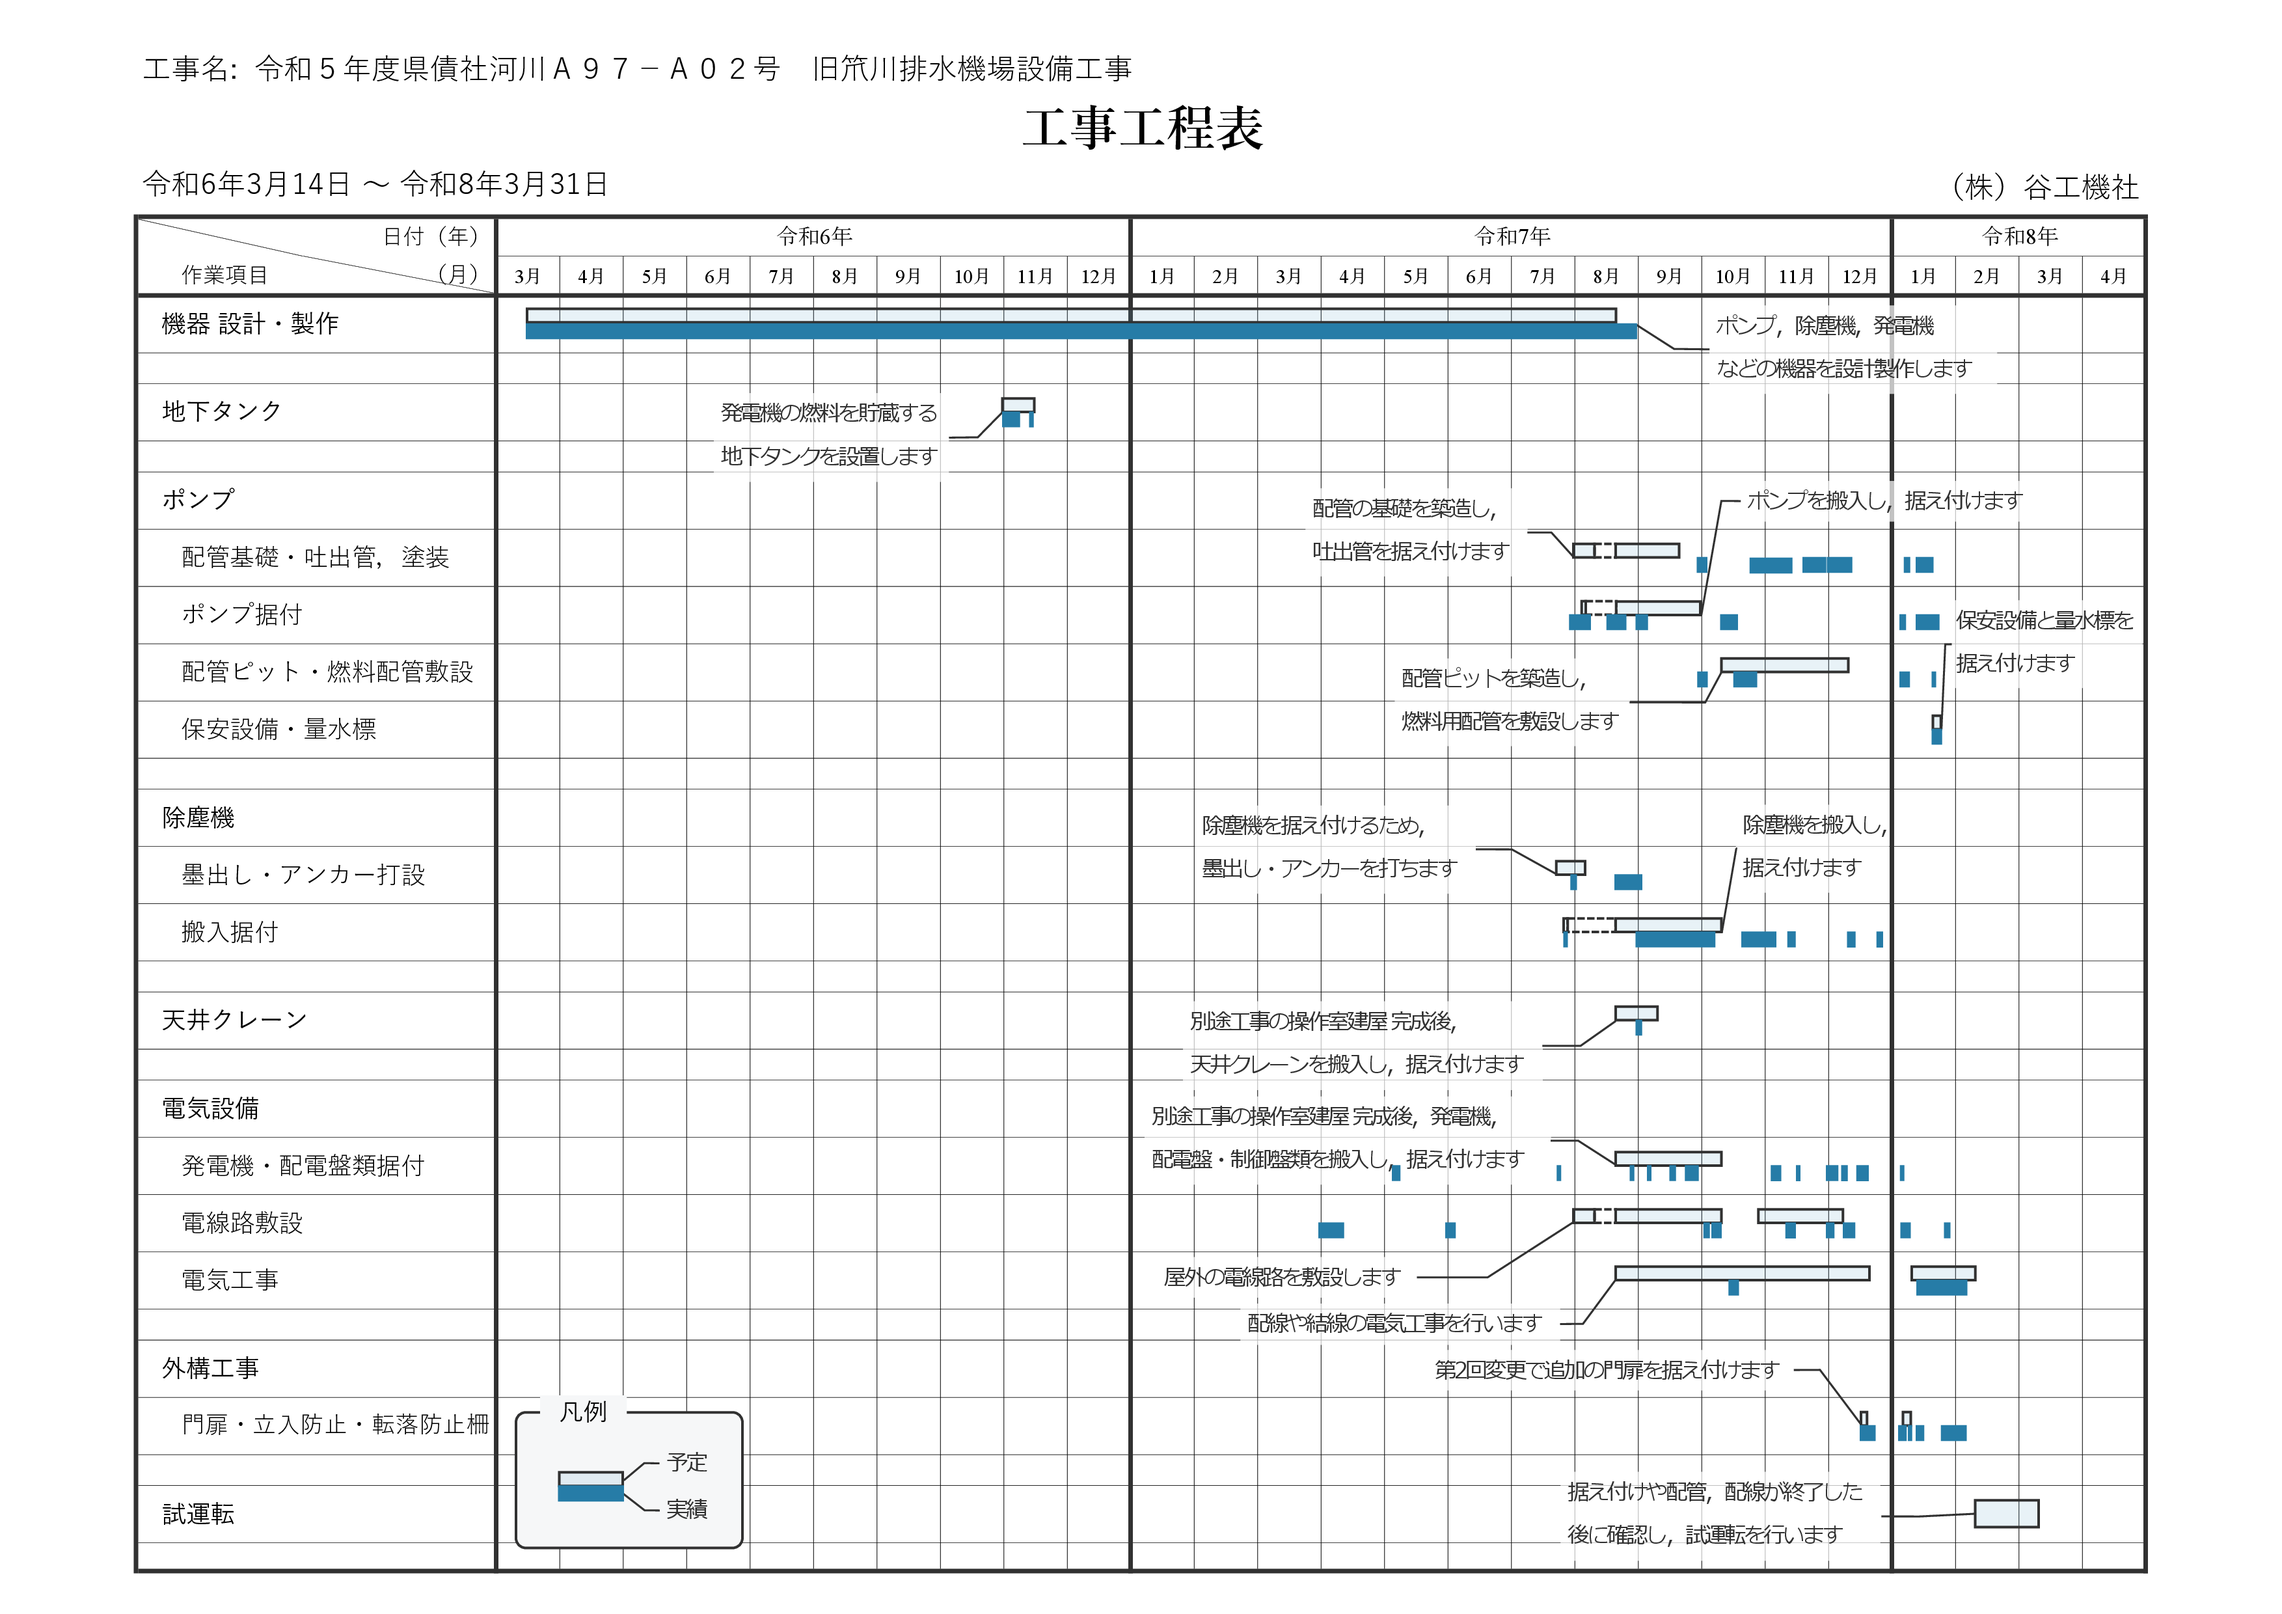
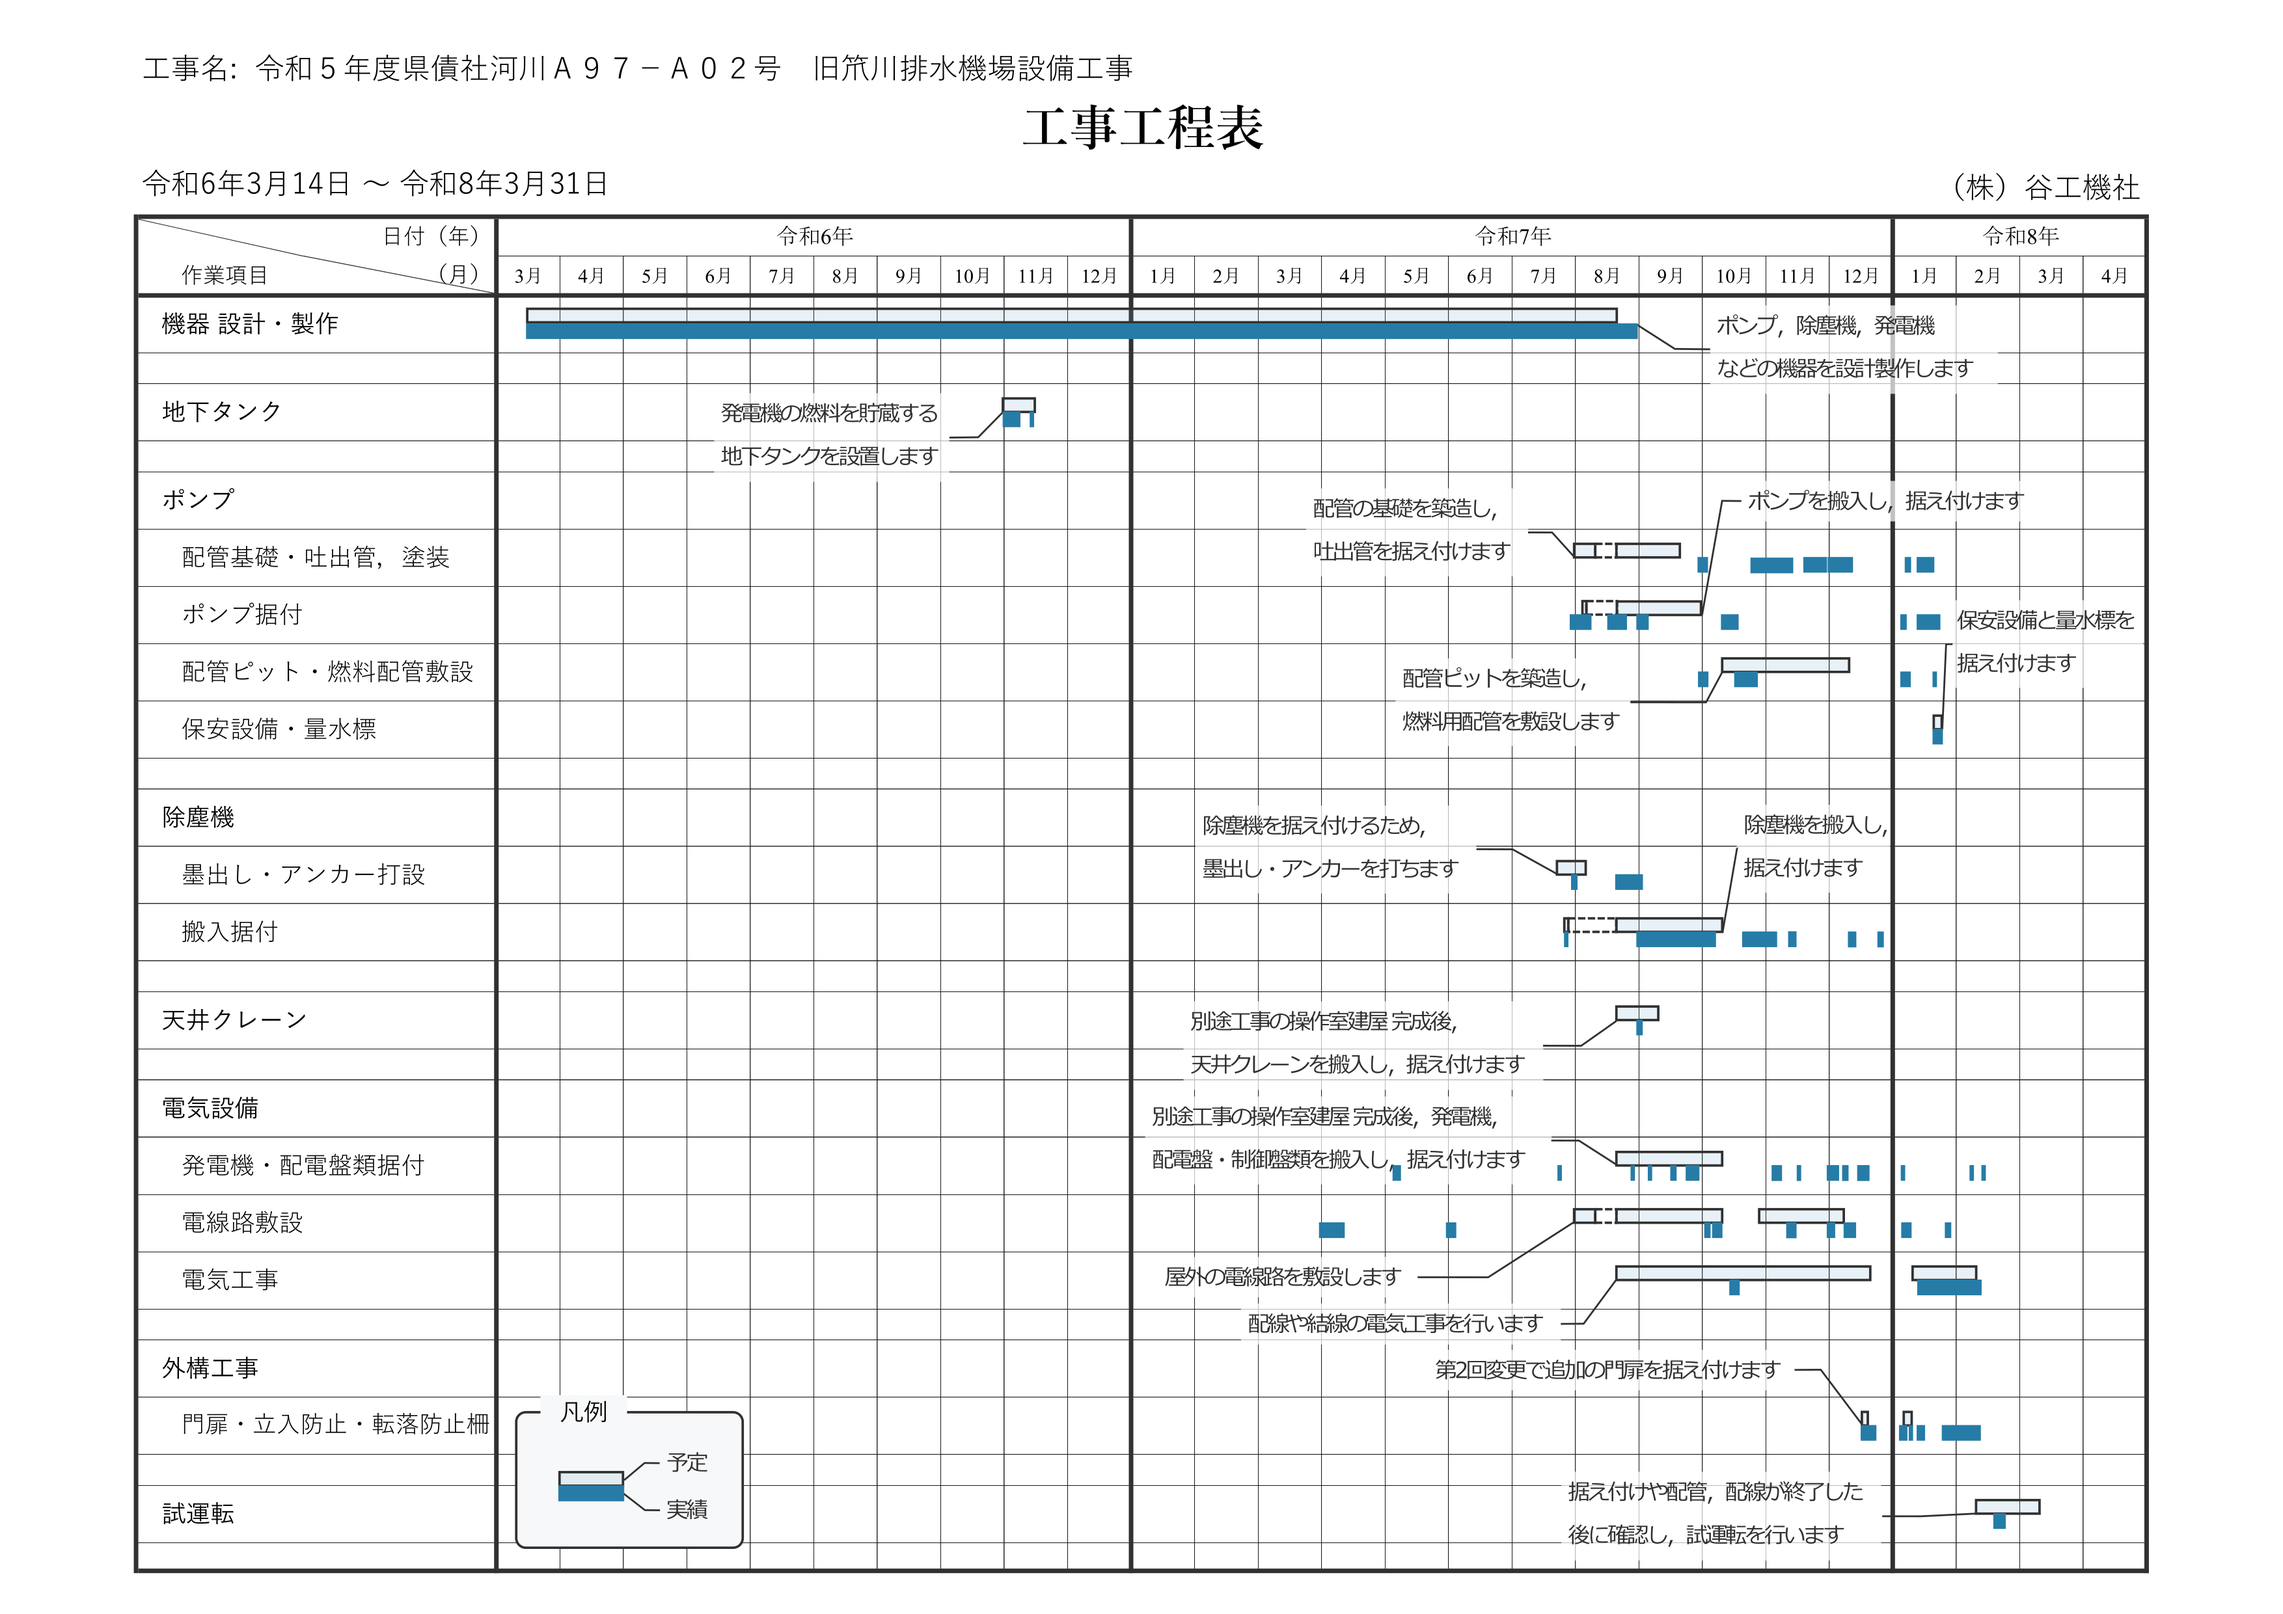
Update: schedule.html の予定更新，schedule.webp 全体工程表の実績更新

diff --git a/schedule.html b/schedule.html
@@ -4153,7 +4153,7 @@
             </tr>
           </tbody>
         </table>
--->
+
         <table class='end_space'>
           <caption class="t-above">（先週の実績）</caption>
           <colgroup>
@@ -4232,9 +4232,9 @@
             </tr>
           </tbody>
         </table>
-
+-->
         <table class='end_space'>
-          <caption class="t-above">（今週の予定）</caption>
+          <caption class="t-above">（先週の実績）</caption>
           <colgroup>
             <col  class="org-center">
             <col  class="org-center">
@@ -4313,7 +4313,7 @@
         </table>
 
         <table class='end_space'>
-          <caption class="t-above">（次週の予定）</caption>
+          <caption class="t-above">（今週の予定）</caption>
           <colgroup>
             <col  class="org-center">
             <col  class="org-center">
@@ -4331,6 +4331,9 @@
               <td class="org-left">02-16（月）</td>
               <td class="org-left">
                 配線・結線作業<br>
+                門扉引戸の基礎工<br>
+                転落防止柵の取付<br>
+                試運転（発電機の単体調整）<br>
                 試運転（配線・シーケンス確認）<br>
               </td>
               <td class="org-left"></td>
@@ -4340,7 +4343,9 @@
               <td class="org-left">02-17（火）</td>
               <td class="org-left">
                 配線・結線作業<br>
-                試運転（発電機無負荷運転確認，並列運転確認）<br>
+                門扉引戸の基礎工<br>
+                転落防止柵の取付<br>
+                試運転（発電機の単体調整）<br>
                 試運転（配線・シーケンス確認）<br>
               </td>
               <td class="org-left"></td>
@@ -4349,6 +4354,9 @@
             <tr>
               <td class="org-left">02-18（水）</td>
               <td class="org-left">
+                配線・結線作業<br>
+                門扉引戸の基礎工<br>
+                転落防止柵の取付<br>
                 配線・結線作業<br>
                 試運転（発電機負荷試験）<br>
                 試運転（配線・シーケンス確認）<br>
@@ -4359,6 +4367,9 @@
               <td class="org-left">02-19（木）</td>
               <td class="org-left">
                 配線・結線作業<br>
+                門扉引戸の基礎工<br>
+                配線・結線作業<br>
+                転落防止柵の取付<br>
                 （東北電力引込工事）<br>
                 試運転（発電機負荷試験）<br>
                 試運転（配線・シーケンス確認）<br>
@@ -4370,7 +4381,11 @@
               <td class="org-left">02-20（金）</td>
               <td class="org-left">
                 配線・結線作業<br>
-                試運転（水位計調整，配線・シーケンス確認）<br>
+                門扉引戸の基礎工<br>
+                転落防止柵の取付<br>
+                配線・結線作業<br>
+                試運転（発電機・制御盤のリンケージ試験）<br>
+                試運転（配線・シーケンス確認）<br>
               </td>
               <td class="org-left"></td>
             </tr>
@@ -4413,10 +4428,9 @@
             <tr>
               <td class="org-left">02-24（火）</td>
               <td class="org-left">
-                補修塗装<br>
-                配線・結線作業<br>
-                フェンス設置工事<br>
-                試運転（配線・シーケンス確認）<br>
+                発電機室の床復旧<br>
+                立入防止フェンス取付<br>
+                法肩コンクリートの基礎工<br>
               </td>
               <td class="org-left"></td>
             </tr>
@@ -4424,20 +4438,18 @@
             <tr>
               <td class="org-left">02-25（水）</td>
               <td class="org-left">
-                補修塗装<br>
-                配線・結線作業<br>
-                フェンス設置工事<br>
-                試運転（配線・シーケンス確認）<br>
+                発電機室の床復旧<br>
+                立入防止フェンス取付<br>
+                法肩コンクリートの基礎工<br>
               </td>
             </tr>
 
             <tr>
               <td class="org-left">02-26（木）</td>
               <td class="org-left">
-                補修塗装<br>
-                配線・結線作業<br>
-                フェンス設置工事<br>
-                試運転（配線・シーケンス確認）<br>
+                発電機室の床復旧<br>
+                立入防止フェンス取付<br>
+                法肩コンクリートの基礎工<br>
               </td>
               <td class="org-left"></td>
             </tr>
@@ -4445,10 +4457,10 @@
             <tr>
               <td class="org-left">02-27（金）</td>
               <td class="org-left">
-                補修塗装<br>
-                配線・結線作業<br>
-                フェンス設置工事<br>
-                試運転（配線・シーケンス確認）<br>
+                発電機室の床復旧<br>
+                電気室の床復旧<br>
+                立入防止フェンス取付<br>
+                法肩コンクリートの基礎工<br>
               </td>
               <td class="org-left"></td>
             </tr>
@@ -4461,6 +4473,86 @@
 
             <tr>
               <td class="org-left">03-01（日）</td>
+              <td class="org-left">休み</td>
+              <td class="org-left"></td>
+            </tr>
+          </tbody>
+        </table>
+
+        <table class='end_space'>
+          <caption class="t-above">（次々週の予定）</caption>
+          <colgroup>
+            <col  class="org-center">
+            <col  class="org-center">
+            <col  class="org-center">
+          </colgroup>
+          <thead>
+            <tr>
+              <th scope="col" class="org-center">月日</th>
+              <th scope="col" class="org-center">作業予定</th>
+              <th scope="col" class="org-center">備 考</th>
+            </tr>
+          </thead>
+          <tbody>
+            <tr>
+              <td class="org-left">03-02（月）</td>
+              <td class="org-left">
+                施設備品の搬入・設置<br>
+                門扉引戸の組立・据付<br>
+                立入防止フェンス取付<br>
+                試運転（発電機・制御盤類のリンケージ試験）<br>
+              </td>
+              <td class="org-left"></td>
+            </tr>
+
+            <tr>
+              <td class="org-left">03-03（火）</td>
+              <td class="org-left">
+                施設備品の搬入・設置<br>
+                門扉引戸の組立・据付<br>
+                立入防止フェンス取付<br>
+                試運転（発電機・制御盤類のリンケージ試験）<br>
+              </td>
+              <td class="org-left"></td>
+            </tr>
+
+            <tr>
+              <td class="org-left">03-04（水）</td>
+              <td class="org-left">
+                施設備品の搬入・設置<br>
+                立入防止フェンス取付<br>
+                試運転（発電機・制御盤類のリンケージ試験）<br>
+              </td>
+            </tr>
+
+            <tr>
+              <td class="org-left">03-05（木）</td>
+              <td class="org-left">
+                施設備品の搬入・設置<br>
+                立入防止フェンス取付<br>
+                試運転（発電機・制御盤類のリンケージ試験）<br>
+              </td>
+              <td class="org-left"></td>
+            </tr>
+
+            <tr>
+              <td class="org-left">03-06（金）</td>
+              <td class="org-left">
+                施設備品の搬入・設置<br>
+                立入防止フェンス取付<br>
+                試運転（発電機・制御盤類のリンケージ試験）<br>
+              </td>
+              <td class="org-left"></td>
+            </tr>
+
+            <tr>
+              <td class="org-left">03-07（土）</td>
+              <td class="org-left">休み</td>
+              <td class="org-left"></td>
+            </tr>
+
+            <tr>
+              <td class="org-left">03-08（日）</td>
               <td class="org-left">休み</td>
               <td class="org-left"></td>
             </tr>
